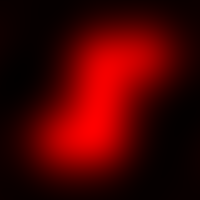
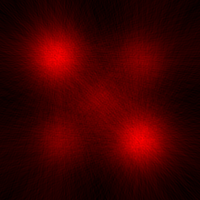
fix gaussian filter

diff --git a/src/main/java/com/example/courseworkgui/ProjectionViewer.java b/src/main/java/com/example/courseworkgui/ProjectionViewer.java
@@ -11,14 +11,11 @@ import javafx.scene.Scene;
 import javafx.stage.FileChooser;
 import javafx.embed.swing.SwingNode;
 import javafx.scene.image.ImageView;
-import javafx.scene.image.WritableImage;
 import javafx.embed.swing.SwingFXUtils;
 
 import javax.imageio.ImageIO;
-import javax.swing.*;
 import java.awt.*;
 import java.awt.image.BufferedImage;
-import java.awt.image.WritableRaster;
 import java.io.*;
 import java.util.*;
 import java.util.List;
@@ -26,7 +23,6 @@ import java.util.List;
 import org.jfree.chart.ChartFactory;
 import org.jfree.chart.ChartPanel;
 import org.jfree.chart.JFreeChart;
-import org.jfree.chart.axis.ValueAxis;
 import org.jfree.chart.plot.XYPlot;
 import org.jfree.chart.renderer.xy.XYItemRenderer;
 import org.jfree.chart.renderer.xy.XYLineAndShapeRenderer;
@@ -508,7 +504,7 @@ public class ProjectionViewer extends Application {
         }
     }
 
-    private double[] getSpectrums(double[] projections, int buffN, int M) {
+    private double[] getFourierTransformsOfProjections(double[] projections, int buffN, int M) {
         // Вычисляем размер спектра
         int N = buffN * 4;
         // Создаем массив для хранения результатов
@@ -596,7 +592,7 @@ private double[] calculateMagnitude(double[] complexArray, int M, int N) {
         double buffQ = 0;
 
         // Получаем спектры проекций
-        double[] projectionsDft = getSpectrums(projections, buffN, M);
+        double[] projectionsDft = getFourierTransformsOfProjections(projections, buffN, M);
 
         // Перебираем все проекции
         for (int p = 0; p < M; p++) {
@@ -608,8 +604,8 @@ private double[] calculateMagnitude(double[] complexArray, int M, int N) {
             for (int s = 0; s < N; s++) {
                 // Вычисляем координаты точки в пространстве
                 double t = (s - (N / 2));
-                double wx = t * sinA;
-                double wy = t * cosA;
+                double wx = t * cosA;
+                double wy = t * sinA;
                 int x = (int) Math.round(wx + (N / 2));
                 int y = (int) Math.round(wy + (N / 2));
 
@@ -738,54 +734,51 @@ private double[] calculateMagnitude(double[] complexArray, int M, int N) {
     }
 
     // Метод для применения Гауссова фильтра к данным
-    private double[] applyGaussianFilter(double[] data, double cutoffFrequency) {
-        // Определение размера данных
-        int size = data.length;
-        // Создание массива для хранения результата
-        double[] result = new double[size];
-        // Определение сигмы для Гауссова фильтра
-        double sigma = cutoffFrequency;
-        // Инициализация переменной для суммирования элементов ядра
-        double sum = 0.0;
+    private double[] applyGaussianFilter(double[] array, double sigma) {
+        int N = array.length;
+        int middle = N / 2;
 
-        // Создание ядра Гауссова фильтра
-        double[] kernel = new double[size];
-        for (int i = 0; i < size; i++) {
-            // Вычисление i-го элемента ядра
-            kernel[i] = (1.0 / (2.0 * Math.PI * sigma * sigma)) * Math.exp(-(i * i) / (2 * sigma * sigma));
-            // Суммирование элементов ядра
-            sum += kernel[i];
+        // Создаем фильтр Гаусса
+        double[] filter = new double[N];
+        for (int i = 0; i < N; i++) {
+            double x = i - middle;
+            filter[i] = Math.exp(-(x * x) / (2 * sigma * sigma));
         }
 
-        // Нормализация ядра (деление каждого элемента на сумму всех элементов)
-        for (int i = 0; i < size; i++) {
-            kernel[i] /= sum;
-        }
-
-        // Применение свертки в прямом направлении (умножение каждого элемента данных на соответствующий элемент ядра и суммирование результатов)
-        for (int i = 0; i < size; i++) {
-            for (int j = 0; j < size; j++) {
-                // Вычисление индекса для циклического смещения
-                int k = (i + j) % size;
-                // Применение свертки
-                result[i] += data[k] * kernel[j];
+        // Применяем фильтр к исходному массиву
+        double[] filteredArray = new double[N];
+        for (int i = 0; i < N; i++) {
+            double sum = 0;
+            for (int j = 0; j < N; j++) {
+                int index = (i + j - middle + N) % N;
+                sum += array[index] * filter[j];
             }
+            filteredArray[i] = sum;
         }
 
-        // Применение свертки в обратном направлении
-        double[] result2 = new double[size];
-        for (int i = size - 1; i >= 0; i--) {
-            for (int j = 0; j < size; j++) {
-                // Вычисление индекса для циклического смещения
-                int k = (i - j + size) % size;
-                // Применение свертки
-                result2[i] += result[k] * kernel[j];
-            }
-        }
+        // Нормализация отфильтрованных данных
+        normalizeData(array, filteredArray);
 
-        // Возвращение результата
-        return result2;
+        return filteredArray;
     }
+
+    private void normalizeData(double[] originalData, double[] filteredData) {
+        double min = Arrays.stream(filteredData).min().getAsDouble();
+        double max = Arrays.stream(filteredData).max().getAsDouble();
+        double originalMin = Arrays.stream(originalData).min().getAsDouble();
+        double originalMax = Arrays.stream(originalData).max().getAsDouble();
+
+        double scale = (originalMax - originalMin) / (max - min);
+        double shift = originalMin - min * scale;
+
+        for (int i = 0; i < filteredData.length; i++) {
+            filteredData[i] = filteredData[i] * scale + shift;
+        }
+
+    }
+
+
+
 
 
     public static void main(String[] args) {

diff --git a/src/main/java/com/example/courseworkgui/GaussianFilter.java b/src/main/java/com/example/courseworkgui/GaussianFilter.java
@@ -1,0 +1,62 @@
+package com.example.courseworkgui;
+
+import java.util.Arrays;
+
+public class GaussianFilter {
+
+    public double[] applyGaussianFilter(double[] array, double sigma) {
+        int N = array.length;
+        int middle = N / 2;
+
+        // Создаем фильтр Гаусса
+        double[] filter = new double[N];
+        for (int i = 0; i < N; i++) {
+            double x = i - middle;
+            filter[i] = Math.exp(-(x * x) / (2 * sigma * sigma));
+        }
+
+        // Применяем фильтр к исходному массиву
+        double[] filteredArray = new double[N];
+        for (int i = 0; i < N; i++) {
+            double sum = 0;
+            for (int j = 0; j < N; j++) {
+                int index = (i + j - middle + N) % N;
+                sum += array[index] * filter[j];
+            }
+            filteredArray[i] = sum;
+        }
+
+        // Нормализация отфильтрованных данных
+        normalizeData(array, filteredArray);
+
+        return filteredArray;
+    }
+
+    private void normalizeData(double[] originalData, double[] filteredData) {
+        double min = Arrays.stream(filteredData).min().getAsDouble();
+        double max = Arrays.stream(filteredData).max().getAsDouble();
+        double originalMin = Arrays.stream(originalData).min().getAsDouble();
+        double originalMax = Arrays.stream(originalData).max().getAsDouble();
+
+        double scale = (originalMax - originalMin) / (max - min);
+        double shift = originalMin - min * scale;
+
+        for (int i = 0; i < filteredData.length; i++) {
+            filteredData[i] = filteredData[i] * scale + shift;
+        }
+    }
+
+    public static void main(String[] args) {
+        double[] array = {1,2,3,4,5,6,7,8,9,10};
+        double sigma = 0.5; // Задайте значение сигмы
+
+        GaussianFilter gaussianFilter = new GaussianFilter();
+        double[] filteredArray = gaussianFilter.applyGaussianFilter(array, sigma);
+
+        // Выводим отфильтрованный массив
+        for (double value : filteredArray) {
+            System.out.println(value);
+        }
+    }
+}
+
